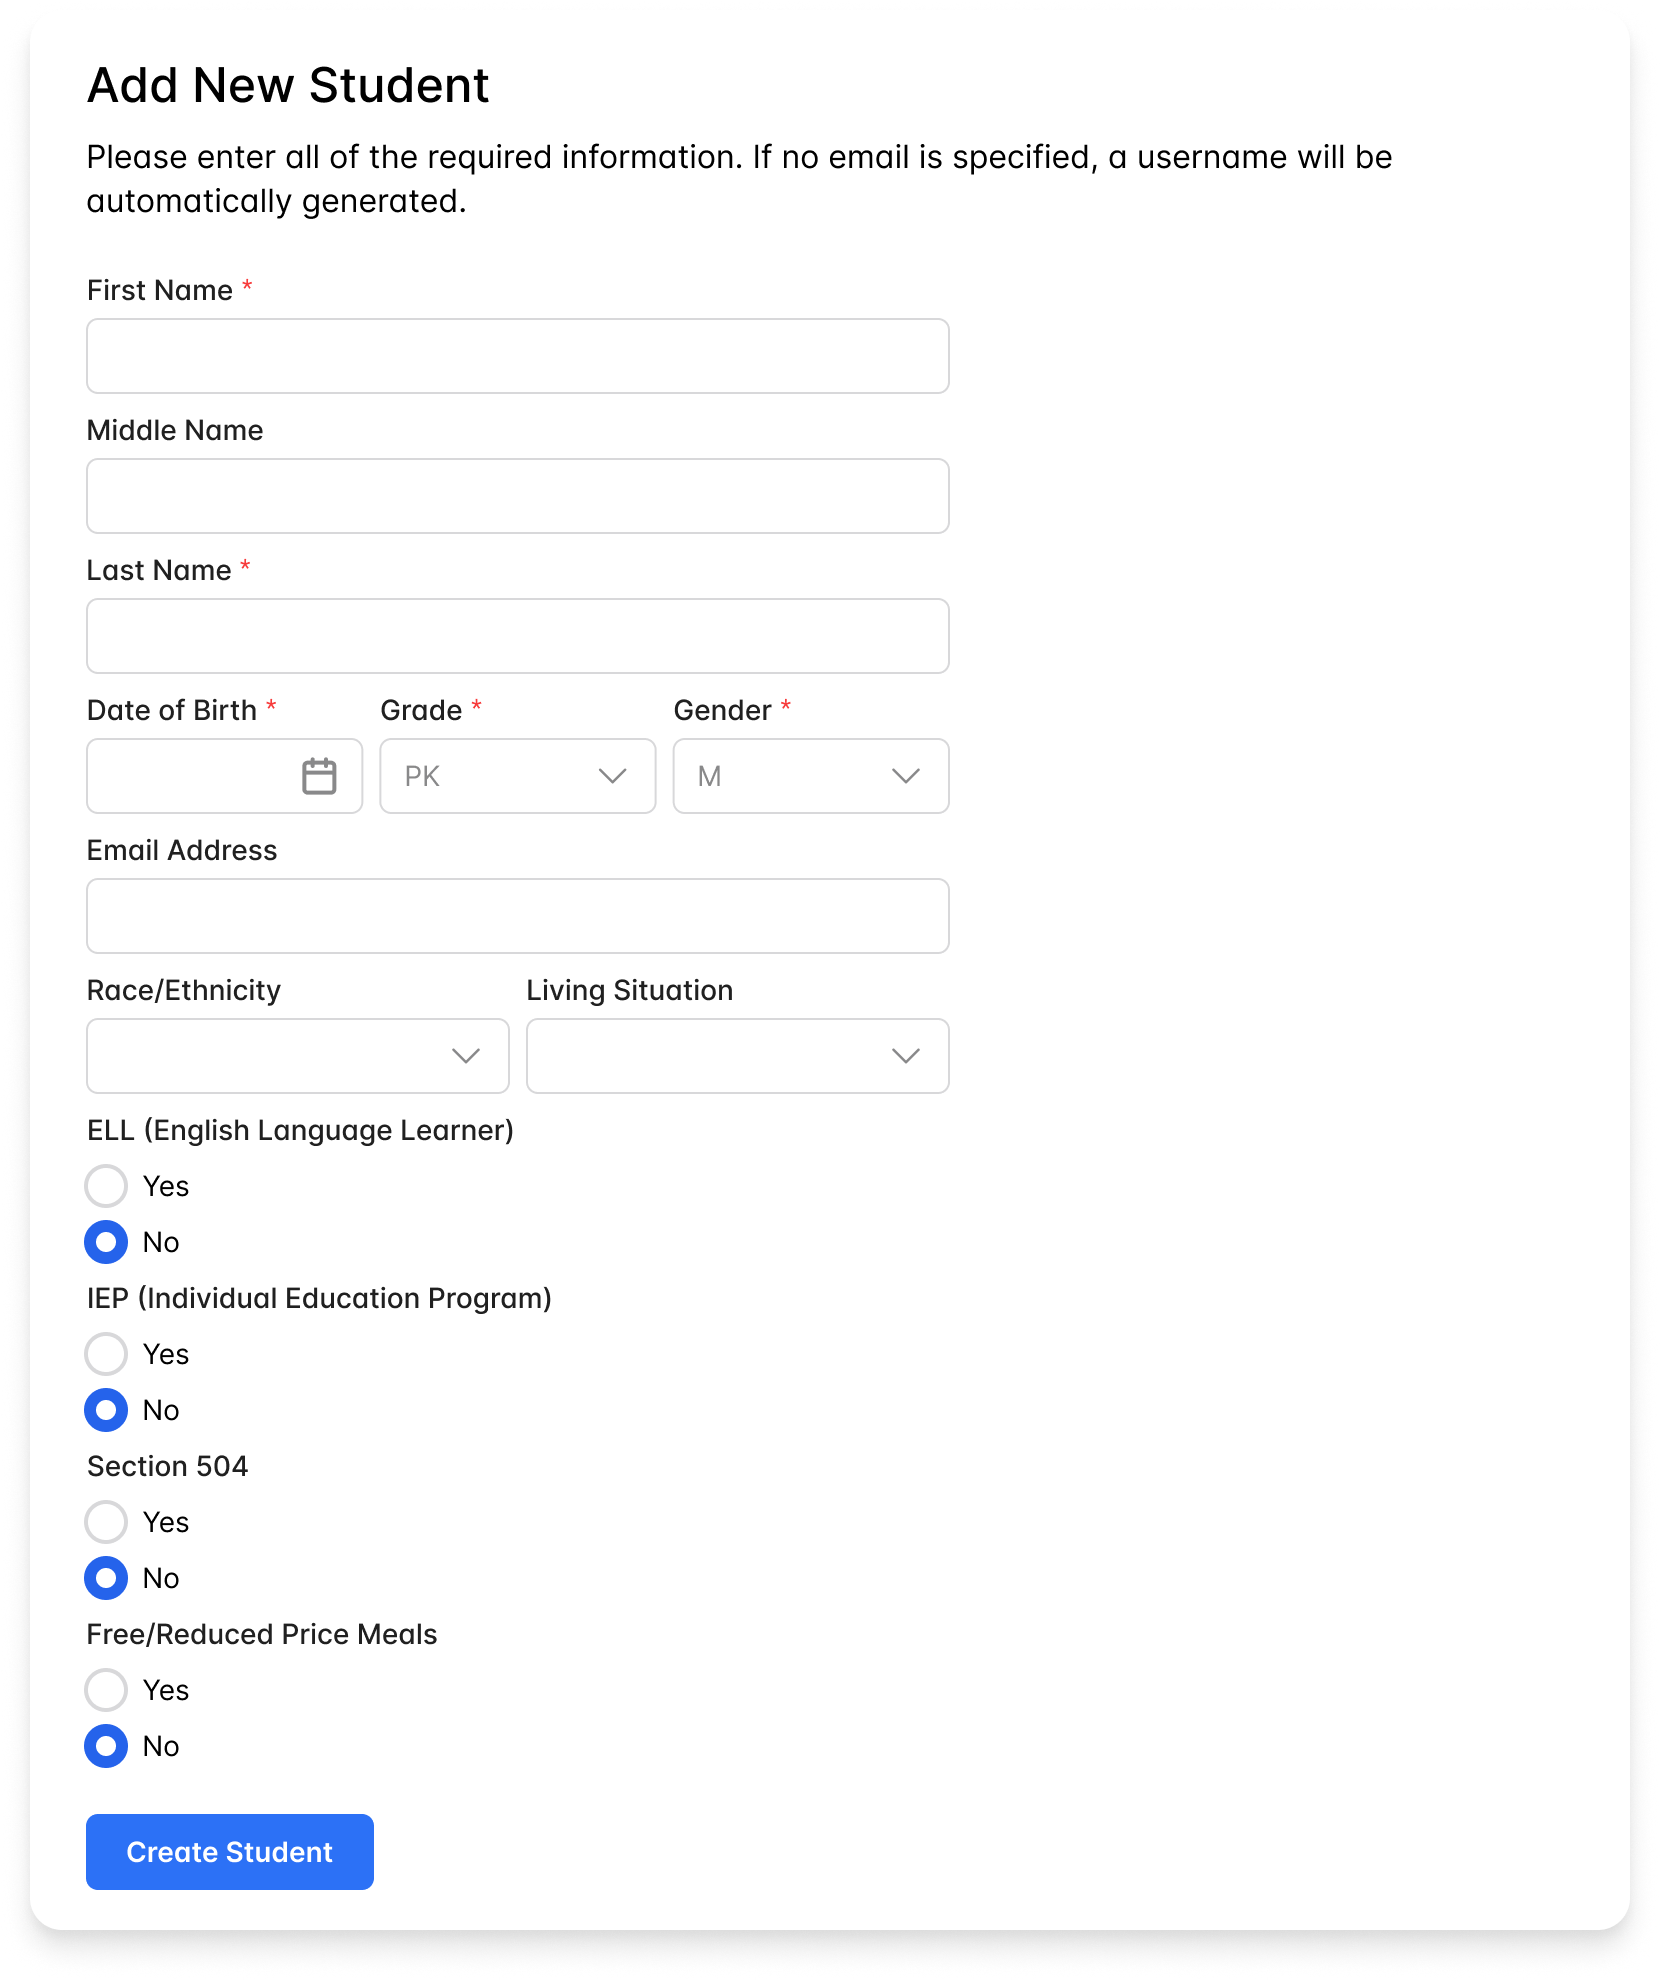
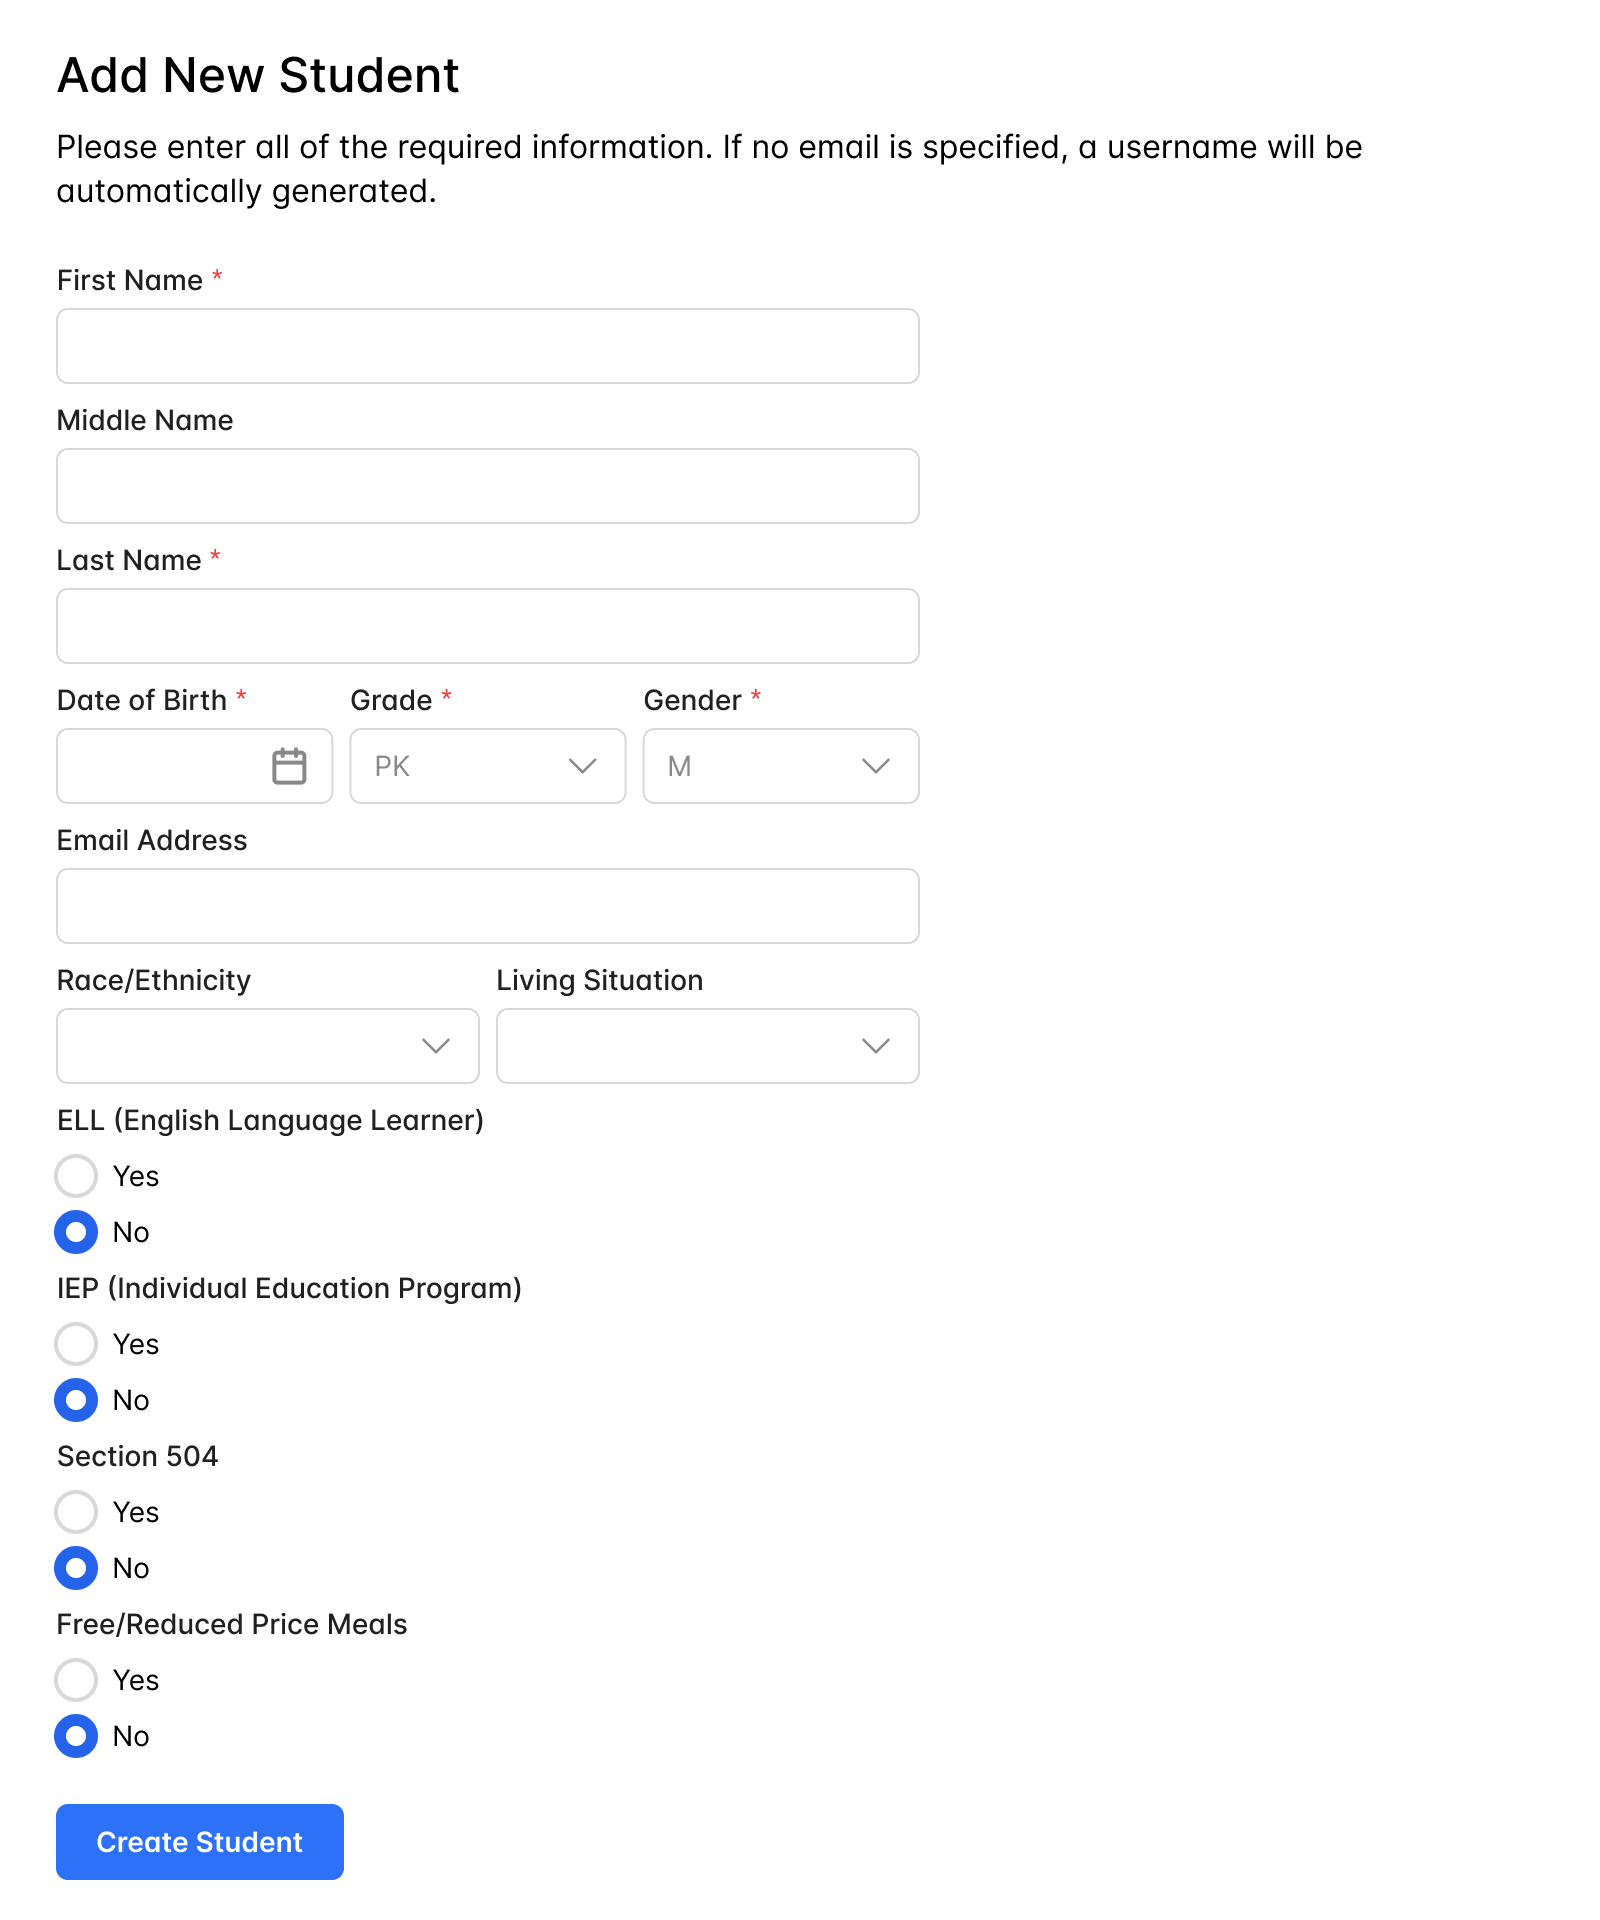
Added flowchart + reworked form for better display

diff --git a/src/pages/projects/SimplifiedStudentRostering.jsx b/src/pages/projects/SimplifiedStudentRostering.jsx
@@ -2,6 +2,7 @@ import { ProjectLayout } from "../../components/ProjectLayout";
 import { Slide } from "../../components/Slide";
 import { PROJECTS } from "../../data/projects";
 import rosteringFlowchart from "../../assets/project-rostering/add_new_student.png";
+import rosteringFlowchartImg from "../../assets/project-rostering/rostering-flowchart.png";
 import styles from "./SimplifiedStudentRostering.module.css";
 import slideStyles from "../../components/Slide.module.css";
 
@@ -65,7 +66,9 @@ export function SimplifiedStudentRostering() {
             integrations.
           </p>
           <div className={slideStyles.contentBody}>
-            <h3 className={slideStyles.contentHeading}>A long, unoptimized form</h3>
+            <h3 className={slideStyles.contentHeading}>
+              A long, unoptimized form
+            </h3>
             <p className={slideStyles.contentParagraph}>
               The existing rostering process only had two options: uploading a
               CSV based on a provided model, or manually rostering each
@@ -134,6 +137,13 @@ export function SimplifiedStudentRostering() {
           by outlining the flows and options we wanted to support as a
           flowchart, mapping out the necessary steps and deliverables.
         </p>
+        <br />
+        <img
+          src={rosteringFlowchartImg}
+          alt="Flowchart of the rostering process"
+          className={slideStyles.contentImage}
+        />
+        <br />
         <p className={slideStyles.body}>
           In parallel, I consulted the documentation for our identity platform
           integrations to examine the JSON data the APIs returned, ensuring my

diff --git a/src/components/Slide.module.css b/src/components/Slide.module.css
@@ -73,7 +73,7 @@
 .contentImage {
   display: block;
   width: 100%;
-  max-width: 500px;
   border-radius: 12px;
   margin: 0 auto;
+  box-shadow: 0 4px 24px rgba(0, 0, 0, 0.12);
 }
